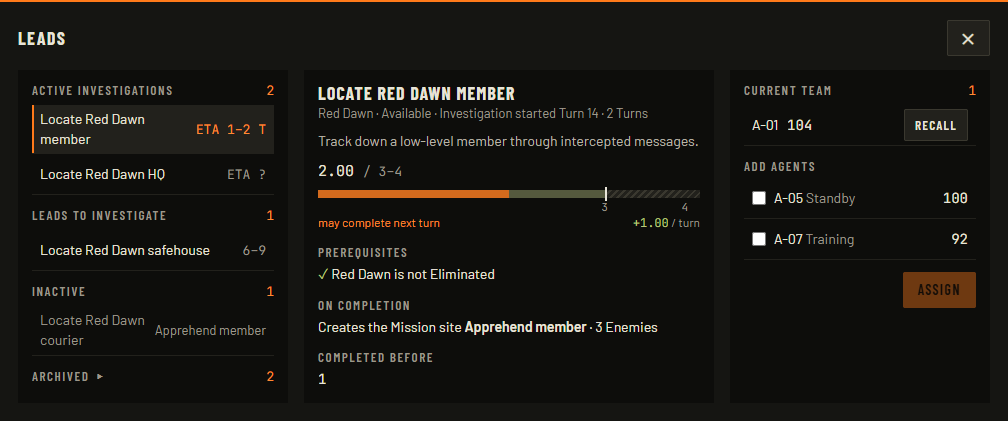
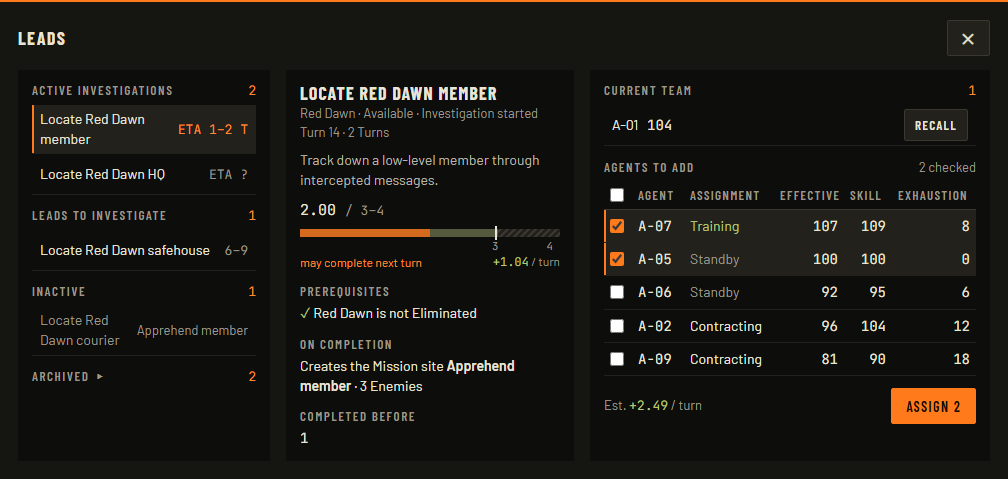
Redraw the Leads View Artboard: Agents to add table and Team progress estimate

diff --git a/docs/specs/design/ui/screens/leads-view.md b/docs/specs/design/ui/screens/leads-view.md
@@ -80,7 +80,7 @@ the middle pane shows the Investigation's projected progress gain, which counts 
 
 # Artboard
 
-![Leads View panel Artboard: Active Investigations, Leads to investigate, and Inactive and Archived Leads on the left; the selected Lead with its description, Progress bar, and the Mission site its completion creates in the middle; and its Current team with Agents to add on the right](../../../../images/artboards/leads-view.png)
+![Leads View panel Artboard: Active Investigations, Leads to investigate, and Inactive and Archived Leads on the left; the selected Lead with its description, Progress bar, and the Mission site its completion creates in the middle; and its Current team, the Agents to add table, and the Team progress estimate on the right](../../../../images/artboards/leads-view.png)
 
 The sample values, e.g. the Lead names, their descriptions, and the Agent IDs, appear only on the Artboard, under
 [Reading Artboards](../visual-design.md#reading-artboards) in Visual Design.
